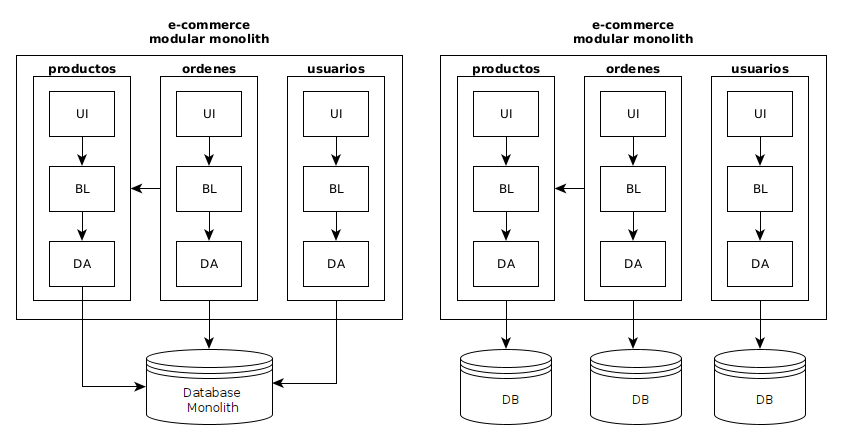
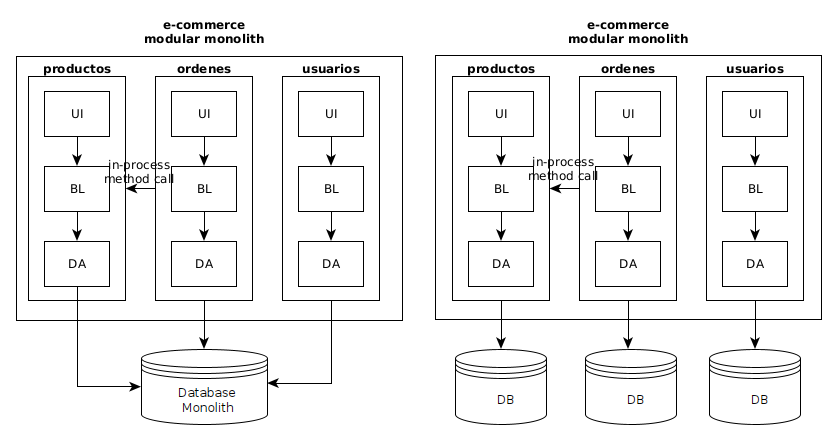
agrego modular monolith

diff --git a/index.html b/index.html
@@ -102,7 +102,8 @@
           <li><a href="#/arqvsde">Diseño vs Arquitectura</a></li>
           <li><a href="#/vis">Visualización</a></li>
           <li><a href="#/styles">Estilos de Arquitectura</a></li>
-          <li><a href="#/codingarch">Coding the Architecture</a></li>
+          <li><a href="#/mod">Estructura de Módulos</a></li>
+          <li><a href="#/dist">Arq. Distribuídas</a></li>
           <li><a href="#/atri">Atributos de Calidad</a></li>
         </ul>
         <div class="placeholder"></div>
@@ -240,7 +241,7 @@
       <section id="vis">
         <p class="fragment">Segun SEI, existen 3 categorías de estructuras:</p>
         <ul>
-          <li class="fragment"><u>Módulos</u>: ¿Cómo estructuramos los fuentes?</li>
+          <li class="fragment"><u>Módulos</u>: ¿Cómo estructuramos los fuentes? Ésta estructura mapea a los fuentes.</li>
           <li class="fragment"><u>Componentes y Conectores</u>: Elementos de Software en ejecución.</li>
           <li class="fragment"><u>Deployment Físico</u>: Elementos de software deployados en equipos de HW.</li>
         </ul>
@@ -251,7 +252,7 @@
         <ul>
           <li class="fragment"><u>Context</u>: ¿Con que otros sistemas interfaceo? </li>
           <li class="fragment"><u>Container</u>: Web Apps, Client-Side Web Apps, Aplicaciones de consola, bases de datos, file systems, etc.</li>
-          <li class="fragment"><u>Component</u>: ¿Cómo estructuramos los fuentes? </li>
+          <li class="fragment"><u>Component</u>: ¿Cómo estructuramos los fuentes?  Ésta estructura mapea a los fuentes.</li>
           <li class="fragment"><u>Code</u></li>
         </ul>
       </section>
@@ -356,19 +357,45 @@
       </section>
 
       <section id="styles">
+        <h3>Arquitecturas Monolíticas vs Distribuídas</h3>
+        <p class="chicoYalineadoIzq"><u>En capas, monolítico</u>: Partición en capas (segun cuestiones técnicas). Único artefacto de software para deployar, corriendo en un único proceso. Sus capas se comunican de la forma in-process.</p>
+        <p class="chicoYalineadoIzq"><u>SOA</u>: Partición funcional. Cada vertical es un artefacto para deployar, cada uno corriendo en su propio proceso. Los verticales se comunican de la forma inter-process, de forma síncrona.</p>
+        <p class="chicoYalineadoIzq"><u>Microservices</u>: Partición funcional, incluso hasta los datos. Cada microservice es deployado en forma independiente, desarrollado en forma independiente, escala en forma independiente. Comunicación <u>asíncrona</u> principalmente (event-based).</p>
+      </section>
+
+      <section id="styles">
+        <h3>Arquitecturas Monolíticas vs Distribuídas</h3>
+        <p>¿Puedo tener partición vertical en arquitecturas monolíticas?</p>
+        <p class="fragment">¡ Por supuesto !</p>
+      </section>
+
+      <section id="styles">
+        <img src="imgs/modularmonolith.png">
+        <p class="chicoYalineadoIzq"><u>Modular Monolith</u>: Único artefacto para deployar, pero estructurado en módulos funcionales.</p>
+      </section>
+
+      <section id="styles">
         <h3>First Law of Software Architecture: Every decision is a trade-off.</h3>
       </section>
+
 
       <!-- Sistemas Homogeneos (monoliticos principalmente)-->
       <!-- Sistemas Heterogeneos (SOA o Microservicios principalmente, diferentes lenguajes, BDs, etc)-->
 
 
+      <section id="mod">
+        <div class="box2">Estructura de Módulos</div>
+      </section>
+
+      <section id="dist">
+        <div class="box2">Arquitecturas Distribuídas</div>
+      </section>
+
       <!-- Atributos de Calidad -->
 
       <section id="atri">
-        <h1>Atributos de Calidad</h1>
+        <div class="box2">Atributos de Calidad</div>
       </section>
-
       
 
       <!-- goglear diagramas de arquitectura en google para mostrar la diversidad de cosas, con colores y formas que no dicen nada -->
